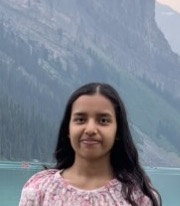
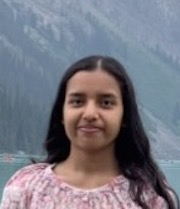
added phd and msc students 2021

diff --git a/people.html b/people.html
@@ -239,7 +239,7 @@
 
 												<div class="3u">
                             <div class="imgWrap">
-                                <a class="image" href="#openModalDustin"><img src="images/team/dustin.png" alt=""><p class="imgDescription">About Dustin</p></a>
+                                <a class="image" href="#openModalDustin"><img src="images/team/dustin2.png" alt=""><p class="imgDescription">About Dustin</p></a>
                                 <div id="openModalDustin" class="modalDialog">
                                     <div>
                                         <a href="#close" title="Close" class="close">X</a>
